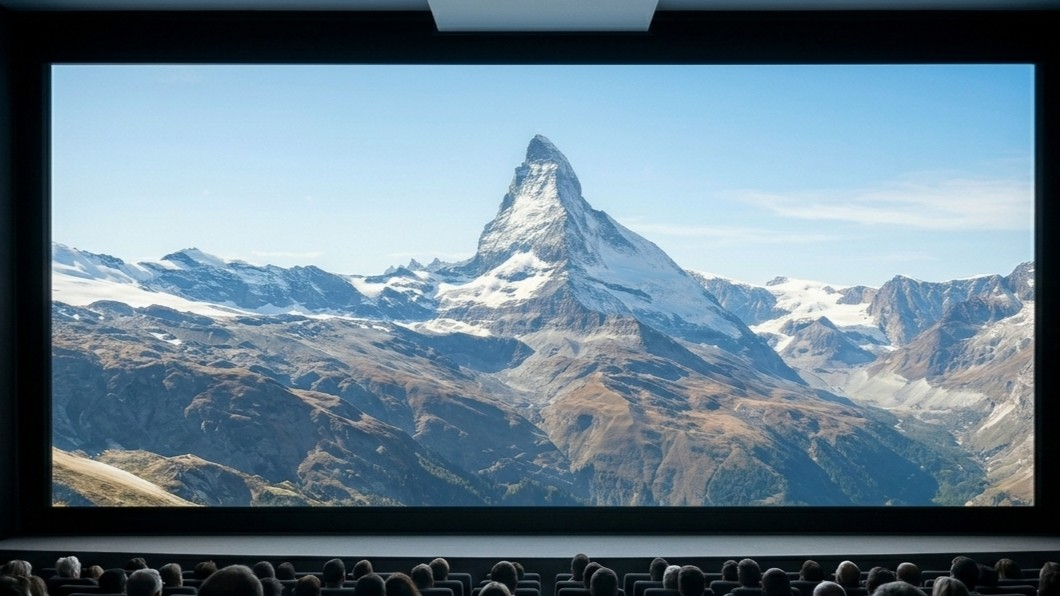
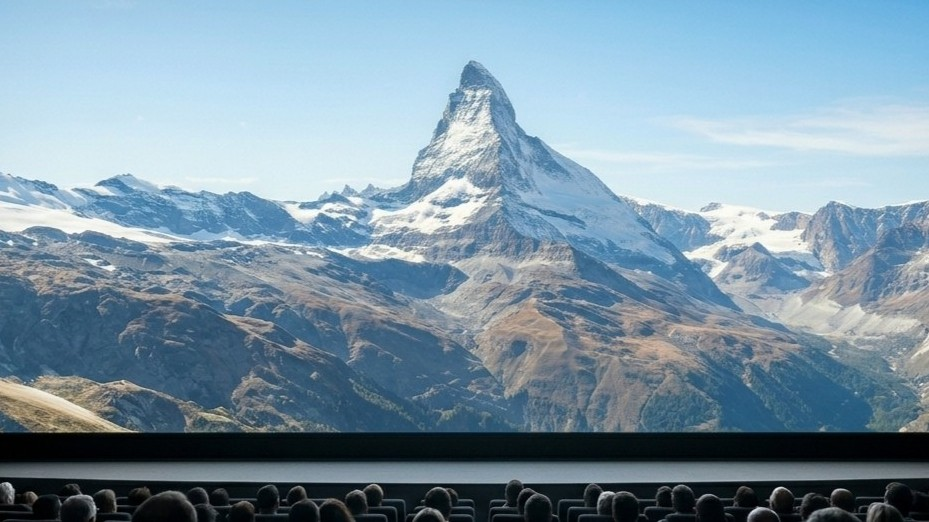
Anchor featured project thumbnails to bottom edge for better framing.
Keep thumb box dimensions unchanged via object-position; refresh Swiss Film and meerkats images.

diff --git a/style2.css b/style2.css
@@ -1087,6 +1087,7 @@
       max-width: 100%;
       aspect-ratio: 16 / 9;
       height: auto;
+      object-position: center bottom;
     }
 
     .teaser-list--grid .teaser__body {
@@ -1212,6 +1213,7 @@
     height: auto;
     max-height: clamp(18rem, 60vh, 34rem);
     object-fit: contain;
+    object-position: center bottom;
   }
 
   /* Keep the over-image title aligned with featured-strip gutters. */
@@ -1335,6 +1337,8 @@
     aspect-ratio: auto;
     height: clamp(16rem, 26vw, 24rem);
     flex: 0 0 auto;
+    /* Keep lower frame (e.g. audience) visible; size unchanged, only crop anchor. */
+    object-position: center bottom;
   }
 
   .teaser--featured .teaser__media {

diff --git a/content/copy.de.md b/content/copy.de.md
@@ -100,7 +100,6 @@ Zahlen. Stories. Gegen den Strich.
 
 ## `home.intro`
 
-Datenjournalismus und interaktive Auswertungen — von Kulturstatistik bis Kino: Stories, die aus offiziellen Zahlen, Karten und Modellen lesbar werden, ohne Buzzword-Bingo. Hier sammle ich laufende Projekte; der Einstieg bleibt bewusst kurz, damit auf einen Blick klar ist, wie viel Text die Startseite neben Titel und Projektteasern noch trägt.
 
 ## `home.aboutTeaserHeading`
 
